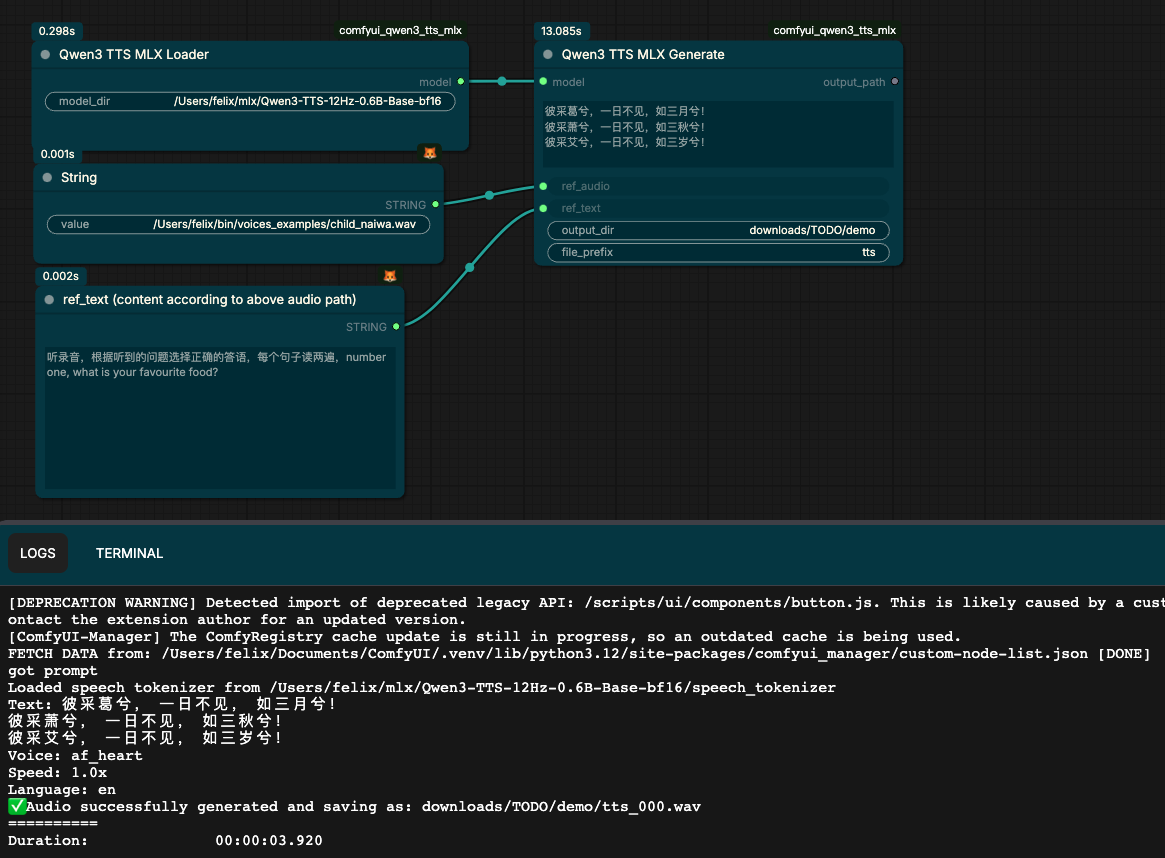
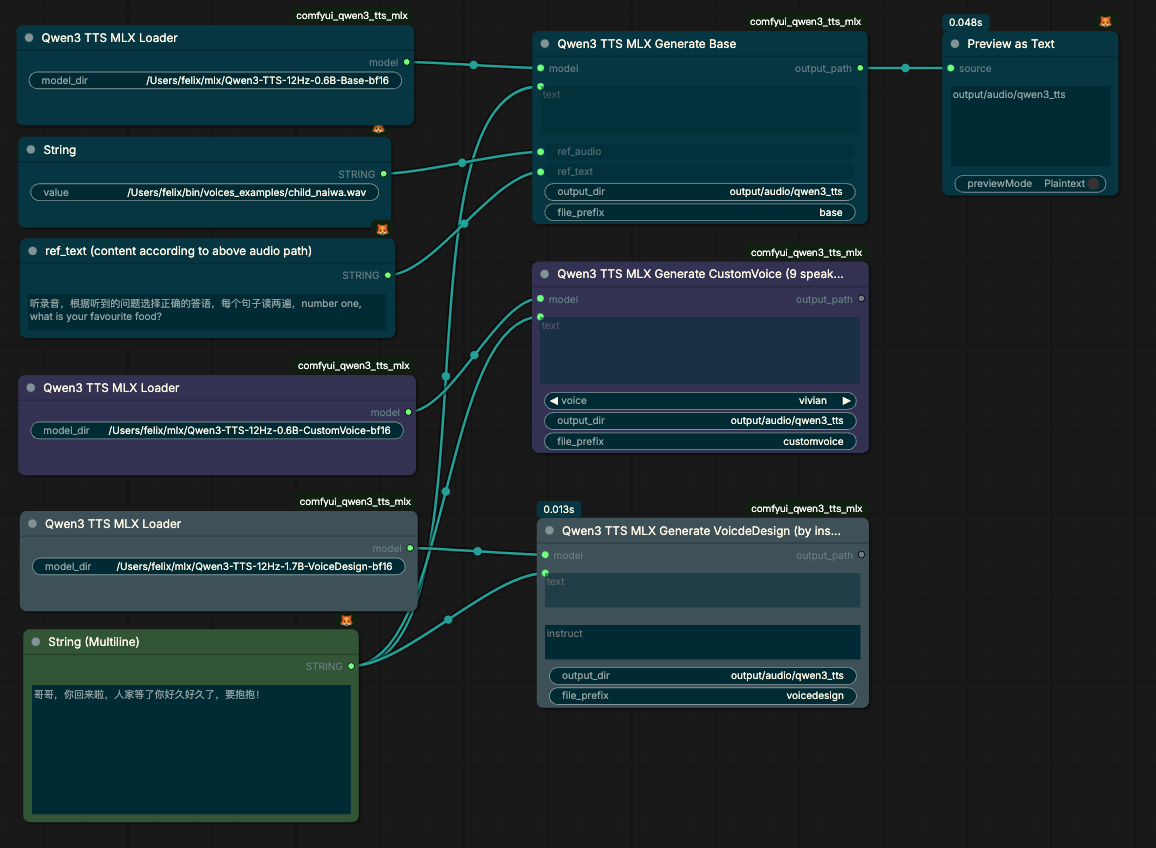
adding nodes [cont 01]: support custom/design

diff --git a/src/comfyui_qwen3_tts_mlx/nodes.py b/src/comfyui_qwen3_tts_mlx/nodes.py
@@ -37,7 +37,7 @@ class Qwen3TTSMLXLoader:
 # 🔹 TTS 生成节点
 # =========================
 
-class Qwen3TTSMLXGenerate:
+class Qwen3TTSBaseMLXGenerate:
 
     @classmethod
     def INPUT_TYPES(cls):
@@ -82,6 +82,90 @@ class Qwen3TTSMLXGenerate:
 
         return (output_dir,)
 
+class Qwen3TTSCustomVoiceMLXGenerate:
+
+    @classmethod
+    def INPUT_TYPES(cls):
+        return {
+            "required": {
+                "model": ("QWEN3_TTS_MODEL",),
+                "text": ("STRING", {"multiline": True}),
+                "voice": (["serena", "vivian", "uncle_fu", "ryan", "aiden", "ono_anna", "sohee", "eric", "dylan"], {"default": "vivian"}),
+                "output_dir": ("STRING", {"default": "tts_output"}),
+                "file_prefix": ("STRING", {"default": "tts"}),
+            }
+        }
+
+    RETURN_TYPES = ("STRING",)
+    RETURN_NAMES = ("output_path",)
+    FUNCTION = "generate_node"
+    CATEGORY = "Qwen3-TTS-MLX"
+
+    OUTPUT_NODE = True
+
+    def generate_node(
+        self,
+        model,
+        text,
+        voice,
+        output_dir,
+        file_prefix,
+    ):
+        os.makedirs(output_dir, exist_ok=True)
+
+        # 调用生成
+        generate_audio(
+            model=model,
+            text=text,
+            voice=voice,
+            file_prefix=file_prefix,
+            output_path=output_dir,
+        )
+
+        return (output_dir,)
+
+class Qwen3TTSVoiceDesignMLXGenerate:
+
+    @classmethod
+    def INPUT_TYPES(cls):
+        return {
+            "required": {
+                "model": ("QWEN3_TTS_MODEL",),
+                "text": ("STRING", {"multiline": True}),
+                "instruct": ("STRING", {"multiline": True}, {"default": "A cheerful young female voice with high pitch"}),
+                "output_dir": ("STRING", {"default": "tts_output"}),
+                "file_prefix": ("STRING", {"default": "tts"}),
+            }
+        }
+
+    RETURN_TYPES = ("STRING",)
+    RETURN_NAMES = ("output_path",)
+    FUNCTION = "generate_node"
+    CATEGORY = "Qwen3-TTS-MLX"
+
+    OUTPUT_NODE = True
+
+    def generate_node(
+        self,
+        model,
+        text,
+        instruct,
+        output_dir,
+        file_prefix,
+    ):
+        os.makedirs(output_dir, exist_ok=True)
+
+        # 调用生成
+        generate_audio(
+            model=model,
+            text=text,
+            instruct=instruct,
+            file_prefix=file_prefix,
+            output_path=output_dir,
+        )
+
+        return (output_dir,)
+
 
 # =========================
 # 🔹 注册
@@ -89,10 +173,14 @@ class Qwen3TTSMLXGenerate:
 
 NODE_CLASS_MAPPINGS = {
     "Qwen3TTSMLXLoader": Qwen3TTSMLXLoader,
-    "Qwen3TTSMLXGenerate": Qwen3TTSMLXGenerate,
+    "Qwen3TTSBaseMLXGenerate": Qwen3TTSBaseMLXGenerate,
+    "Qwen3TTSCustomVoiceMLXGenerate": Qwen3TTSCustomVoiceMLXGenerate,
+    "Qwen3TTSVoiceDesignMLXGenerate": Qwen3TTSVoiceDesignMLXGenerate,
 }
 
 NODE_DISPLAY_NAME_MAPPINGS = {
     "Qwen3TTSMLXLoader": "Qwen3 TTS MLX Loader",
-    "Qwen3TTSMLXGenerate": "Qwen3 TTS MLX Generate",
+    "Qwen3TTSBaseMLXGenerate": "Qwen3 TTS MLX Generate Base",
+    "Qwen3TTSCustomVoiceMLXGenerate": "Qwen3 TTS MLX Generate CustomVoice (9 speakers)",
+    "Qwen3TTSVoiceDesignMLXGenerate": "Qwen3 TTS MLX Generate VoicdeDesign (by instruct)",
 }
